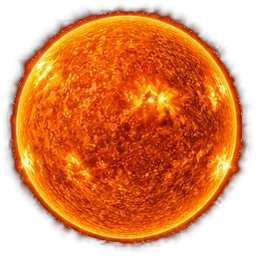
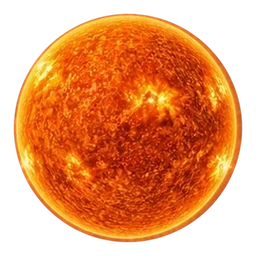
Oráculo: Sol com contorno redondo e liso e brilho suave na borda
Claude-Session: https://claude.ai/code/session_019kqAkVGodtTPLnZ4JhFLF3

Changed region(s): [[0.0, 0.0, 1.0, 1.0]]

diff --git a/app/caravana-do-ceu.html b/app/caravana-do-ceu.html
@@ -597,8 +597,7 @@ details.guide .gb p{line-height:1.75;color:#3C3A33}
 .orsolraios2{animation-direction:reverse!important;animation-duration:230s!important;opacity:.6}
 @keyframes orsolrespira{from{opacity:.85;transform:translate(-50%,-50%) scale(.97)}to{opacity:1;transform:translate(-50%,-50%) scale(1.04)}}
 .orsolaura{position:absolute;left:50%;top:50%;width:30%;aspect-ratio:1;transform:translate(-50%,-50%);pointer-events:none;z-index:3;mix-blend-mode:screen;
-  background:radial-gradient(circle closest-side,rgba(255,250,225,.18) 0,rgba(255,240,200,.08) 50%,rgba(255,236,190,.85) 64%,rgba(255,196,96,.55) 70%,rgba(255,150,50,.22) 80%,transparent 100%);filter:blur(1px)}
-.orbitas .orcel.orsol .orcsim{-webkit-mask-image:radial-gradient(circle closest-side,#000 88%,transparent 100%);mask-image:radial-gradient(circle closest-side,#000 88%,transparent 100%)}
+  background:radial-gradient(circle closest-side,transparent 0,transparent 54%,rgba(255,236,190,.35) 58%,rgba(255,226,160,.7) 60.5%,rgba(255,190,90,.42) 65%,rgba(255,150,50,.16) 76%,transparent 100%);filter:blur(1.5px)}
 .orbitas .orcel.orsol{z-index:2}
 .orbitas .orcel.orsol .orcsim{filter:saturate(1.15) brightness(1.08) contrast(1.05)}
 @keyframes orgira{to{transform:rotate(360deg)}}
